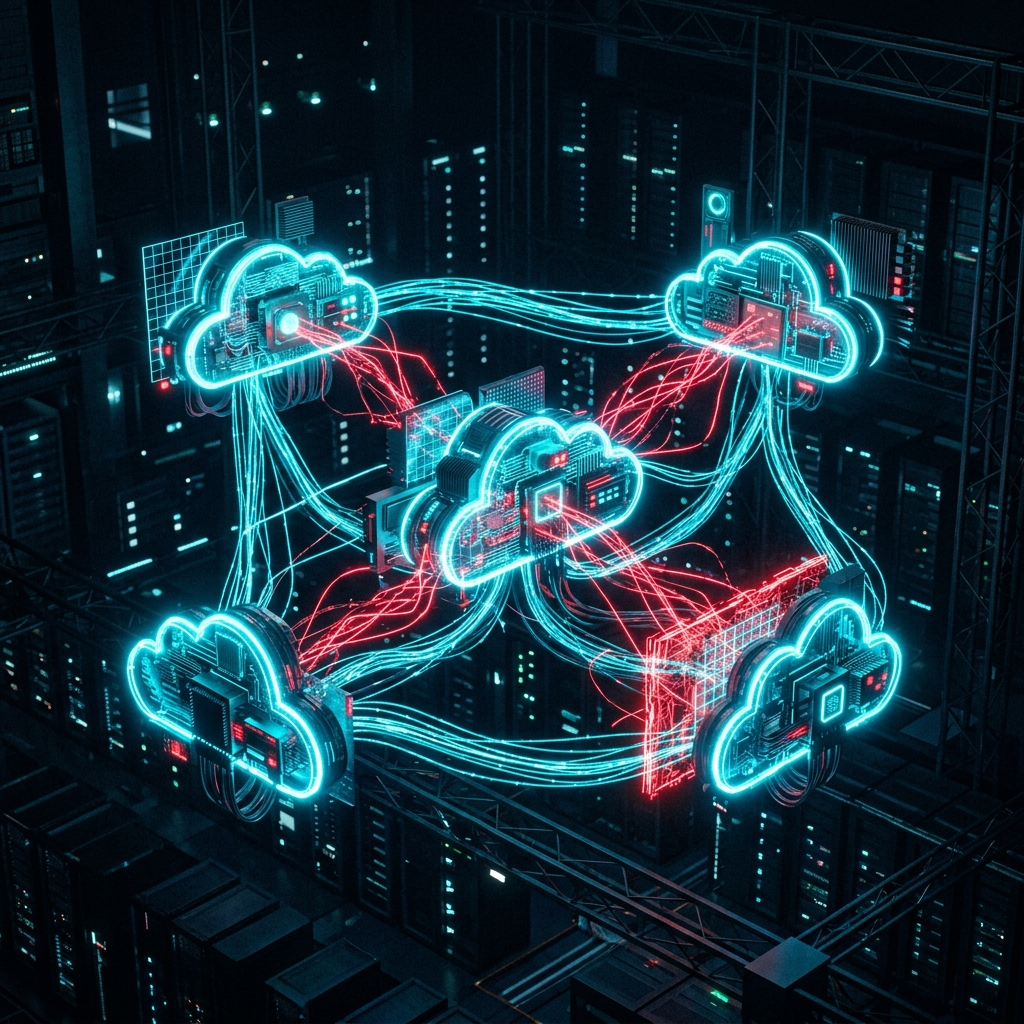
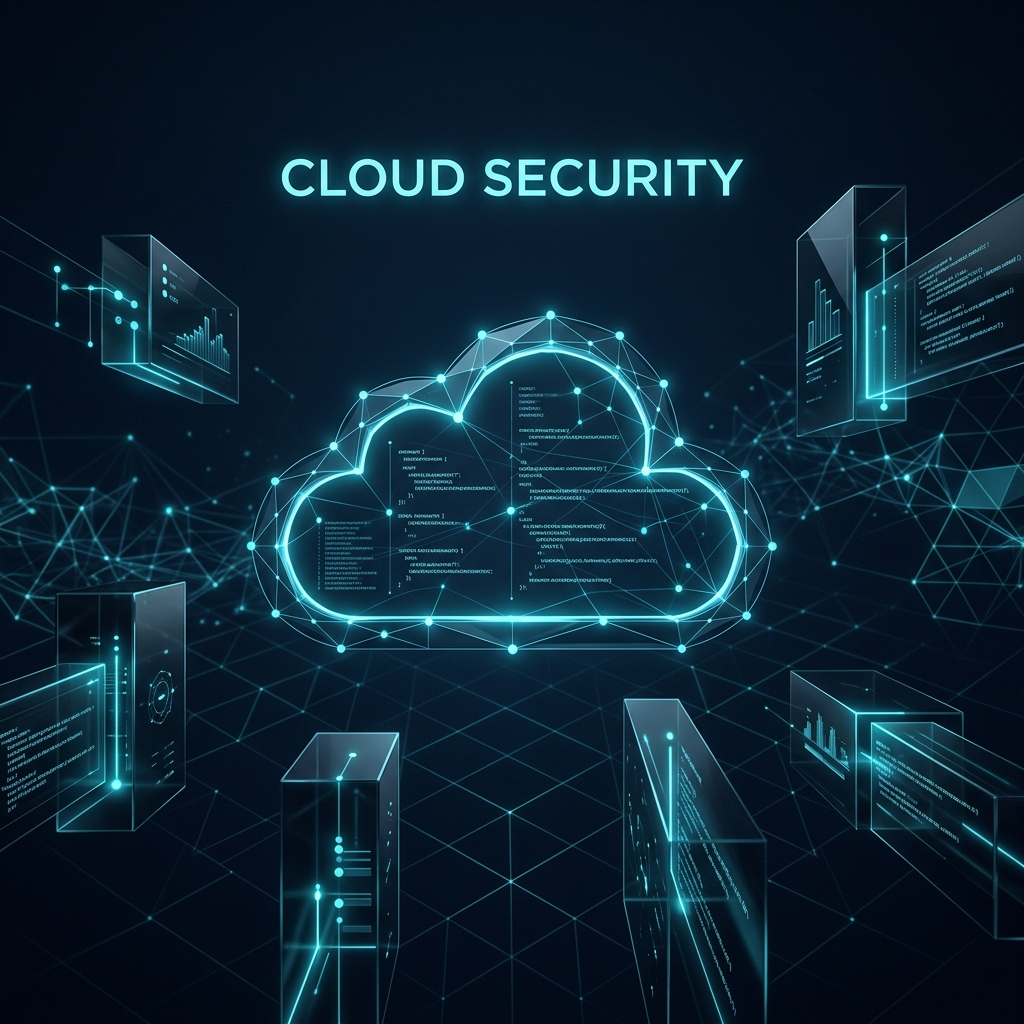
feat: complete redesign of cloud security to full page layout

diff --git a/src/components/pages/Page08CloudSecurity.tsx b/src/components/pages/Page08CloudSecurity.tsx
@@ -3,112 +3,118 @@ import cloudImg from "@/assets/p11-cloud.jpg";
 
 export function Page08CloudSecurity({ goToIndex }: { goToIndex?: (i: number) => void }) {
   return (
-    <div className="relative w-full h-full bg-ink overflow-hidden">
-      {/* Full bleed background image with low opacity */}
-      <motion.img
-        src={cloudImg}
-        alt="Cloud Architecture Map"
-        width={1920}
-        height={1080}
-        loading="lazy"
-        initial={{ scale: 1.1, opacity: 0 }}
-        whileInView={{ scale: 1, opacity: 0.3 }}
-        viewport={{ once: true, margin: "-100px" }}
-        transition={{ duration: 1.5, ease: "easeOut" }}
-        className="absolute inset-0 w-full h-full object-cover"
-      />
-      <div className="absolute inset-0 bp-grid opacity-50" />
-
-      {/* Animated SVG Network Mesh representing Cloud */}
-      <svg className="absolute inset-0 w-full h-full pointer-events-none" viewBox="0 0 1920 1080" preserveAspectRatio="none">
-        {[
-          { x1: "10%", y1: "80%", x2: "40%", y2: "40%", c: "#00D8FF" },
-          { x1: "40%", y1: "40%", x2: "70%", y2: "70%", c: "#00D8FF" },
-          { x1: "70%", y1: "70%", x2: "90%", y2: "30%", c: "#FF355E" },
-          { x1: "20%", y1: "20%", x2: "40%", y2: "40%", c: "#00D8FF" },
-          { x1: "60%", y1: "15%", x2: "90%", y2: "30%", c: "#00D8FF" },
-        ].map((line, i) => (
-          <motion.line
-            key={i}
-            x1={line.x1}
-            y1={line.y1}
-            x2={line.x2}
-            y2={line.y2}
-            stroke={line.c}
-            strokeWidth="1"
-            strokeDasharray="4 4"
-            initial={{ pathLength: 0, opacity: 0 }}
-            whileInView={{ pathLength: 1, opacity: 0.5 }}
-            viewport={{ once: true }}
-            transition={{ duration: 2, delay: i * 0.3 }}
-          />
-        ))}
-        {/* Animated Packets on lines */}
-        {[
-          { cx: "40%", cy: "40%", delay: 0 },
-          { cx: "70%", cy: "70%", delay: 1 },
-          { cx: "90%", cy: "30%", delay: 1.5 },
-        ].map((node, i) => (
-          <motion.circle
-            key={`n${i}`}
-            cx={node.cx}
-            cy={node.cy}
-            r="4"
-            fill="#0B1220"
-            stroke="#00D8FF"
-            strokeWidth="1.5"
-            initial={{ scale: 0 }}
+    <div className="relative w-full h-full bg-void overflow-y-auto custom-scrollbar">
+      
+      {/* Hero Section */}
+      <div className="relative w-full min-h-[60vh] flex flex-col justify-center px-8 md:px-24 pt-20 pb-16">
+        {/* Background Image with Gradient Fade */}
+        <div className="absolute inset-0 z-0">
+          <motion.img
+            src={cloudImg}
+            alt="Cloud Security"
+            className="w-full h-full object-cover opacity-40"
+            initial={{ scale: 1.05 }}
             whileInView={{ scale: 1 }}
             viewport={{ once: true }}
-            transition={{ delay: 1 + node.delay }}
+            transition={{ duration: 1.5, ease: "easeOut" }}
           />
-        ))}
-      </svg>
+          <div className="absolute inset-0 bg-gradient-to-b from-void/30 via-void/80 to-void" />
+          <div className="absolute inset-0 bp-grid-fine opacity-30" />
+        </div>
 
-      <div className="relative z-10 w-full h-full flex items-center justify-end p-8 md:p-16 pointer-events-none">
-        {/* Floating frosted glass panel on the right - Made scrollable for extra content */}
-        <motion.div 
-          initial={{ x: 50, opacity: 0 }}
-          whileInView={{ x: 0, opacity: 1 }}
-          viewport={{ once: true }}
-          transition={{ duration: 0.8 }}
-          className="w-full max-w-2xl h-full max-h-[85vh] overflow-y-auto custom-scrollbar bg-void/85 backdrop-blur-xl border border-cyan/20 p-8 md:p-12 shadow-[0_0_50px_rgba(0,216,255,0.05)] pointer-events-auto"
-        >
-          <div className="flex justify-between items-start mb-6 sticky top-0 bg-void/90 backdrop-blur-md pt-2 pb-4 z-20 border-b border-line/30 -mt-4 mb-8">
+        {/* Hero Content */}
+        <div className="relative z-10 max-w-4xl">
+          <div className="flex items-center gap-4 mb-8">
             <div className="mono text-[10px] uppercase tracking-[0.35em] text-cyan">
               08 — Discipline
             </div>
+            <div className="h-px w-12 bg-cyan/30" />
             <div className="flex items-center gap-2 mono text-[9px] text-cyan/70">
               <span className="w-2 h-2 rounded-full bg-cyan pulse-dot" />
-              REGION: us-east-1 ONLINE
+              MULTI-CLOUD ENVIRONMENT ACTIVE
             </div>
           </div>
-          
+
           <motion.h2
-            initial={{ opacity: 0, y: 10 }}
+            initial={{ opacity: 0, y: 20 }}
             whileInView={{ opacity: 1, y: 0 }}
             viewport={{ once: true }}
-            transition={{ delay: 0.2, duration: 0.8 }}
-            className="display text-4xl md:text-5xl leading-[1.1] font-semibold mb-2"
+            transition={{ duration: 0.8 }}
+            className="display text-5xl md:text-7xl lg:text-8xl leading-[1.05] font-semibold mb-6 tracking-tight text-paper"
           >
             Cloud<br />
             <span className="text-cyan">Security.</span>
           </motion.h2>
 
-          <p className="mono text-[10px] text-cyan uppercase tracking-[0.2em] mb-8">
+          <motion.p 
+            initial={{ opacity: 0 }}
+            whileInView={{ opacity: 1 }}
+            viewport={{ once: true }}
+            transition={{ delay: 0.2, duration: 0.8 }}
+            className="mono text-xs md:text-sm text-cyan uppercase tracking-[0.2em] max-w-2xl leading-relaxed"
+          >
             Secure your multi-cloud infrastructure and cloud-native apps.
-          </p>
+          </motion.p>
+        </div>
+      </div>
 
-          <div className="mb-10">
-            <h3 className="display text-lg font-semibold text-paper mb-3 border-l-2 border-cyan pl-3">Overview</h3>
-            <p className="text-paper/70 text-sm leading-relaxed">
+      {/* Main Content Grid */}
+      <div className="relative z-10 w-full px-8 md:px-24 pb-24 grid grid-cols-1 lg:grid-cols-12 gap-16">
+        
+        {/* Left Column (Overview & FAQ) */}
+        <div className="col-span-1 lg:col-span-5 flex flex-col gap-16">
+          <motion.div 
+            initial={{ opacity: 0, y: 20 }}
+            whileInView={{ opacity: 1, y: 0 }}
+            viewport={{ once: true, margin: "-50px" }}
+            transition={{ duration: 0.6 }}
+          >
+            <h3 className="display text-2xl font-semibold text-paper mb-6 flex items-center gap-4">
+              <span className="w-8 h-px bg-cyan"></span>
+              Overview
+            </h3>
+            <p className="text-paper/70 text-base leading-relaxed">
               Misconfigurations are the leading cause of cloud breaches. We analyze your AWS, Azure, GCP, and Kubernetes deployments to ensure proper IAM governance, network segmentation, and adherence to cloud security benchmarks.
             </p>
-          </div>
+          </motion.div>
 
-          <div className="mb-10">
-            <h3 className="display text-lg font-semibold text-paper mb-4 border-l-2 border-cyan pl-3">What's Included</h3>
-            <div className="grid grid-cols-1 md:grid-cols-2 gap-3">
+          <motion.div
+            initial={{ opacity: 0, y: 20 }}
+            whileInView={{ opacity: 1, y: 0 }}
+            viewport={{ once: true, margin: "-50px" }}
+            transition={{ duration: 0.6, delay: 0.2 }}
+          >
+            <h3 className="display text-2xl font-semibold text-paper mb-6 flex items-center gap-4">
+              <span className="w-8 h-px bg-cyan"></span>
+              FAQ
+            </h3>
+            <div className="flex flex-col gap-4">
+              {[
+                { q: "Do you support multi-cloud environments?", a: "Yes, our team is proficient across AWS, Azure, and Google Cloud Platform, providing unified security strategies." },
+                { q: "How do you detect drift in cloud environments?", a: "We implement continuous monitoring tools and IaC guardrails that instantly alert on unauthorized configuration changes." }
+              ].map((faq, i) => (
+                 <div key={i} className="border border-line/30 p-6 bg-panel/30 hover:bg-panel/50 transition-colors">
+                    <div className="text-cyan text-sm font-semibold mb-3 tracking-wide">{faq.q}</div>
+                    <div className="text-paper/70 text-sm leading-relaxed">{faq.a}</div>
+                 </div>
+              ))}
+            </div>
+          </motion.div>
+        </div>
+
+        {/* Right Column (Included & Deliverables) */}
+        <div className="col-span-1 lg:col-span-7 flex flex-col gap-16">
+          <motion.div
+            initial={{ opacity: 0, y: 20 }}
+            whileInView={{ opacity: 1, y: 0 }}
+            viewport={{ once: true, margin: "-50px" }}
+            transition={{ duration: 0.6, delay: 0.1 }}
+          >
+            <h3 className="display text-2xl font-semibold text-paper mb-6 flex items-center gap-4">
+              <span className="w-8 h-px bg-cyan"></span>
+              What's Included
+            </h3>
+            <div className="grid grid-cols-1 md:grid-cols-2 gap-4">
               {[
                 "Cloud Security Posture Management (CSPM) implementation and tuning",
                 "Identity & Access Management (IAM) privilege auditing (CIEM)",
@@ -117,63 +123,57 @@ export function Page08CloudSecurity({ goToIndex }: { goToIndex?: (i: number) => 
                 "Cloud network architecture and egress filtering validation",
                 "Continuous compliance mapping (CIS Benchmarks, NIST)"
               ].map((item, i) => (
-                <div key={i} className="flex items-start gap-3 bg-cyan/5 border border-cyan/10 p-3">
-                  <span className="text-cyan mt-0.5">✓</span>
-                  <span className="text-[11px] text-paper/80 leading-relaxed">{item}</span>
+                <div key={i} className="flex items-start gap-4 border border-cyan/10 bg-cyan/5 p-5 hover:border-cyan/30 transition-colors">
+                  <div className="flex-shrink-0 w-5 h-5 rounded bg-cyan/10 border border-cyan/30 flex items-center justify-center mt-0.5">
+                    <span className="text-cyan text-xs">✓</span>
+                  </div>
+                  <span className="text-[13px] text-paper/85 leading-relaxed">{item}</span>
                 </div>
               ))}
             </div>
-          </div>
+          </motion.div>
 
-          <div className="mb-10">
-            <h3 className="display text-lg font-semibold text-paper mb-4 border-l-2 border-cyan pl-3">Key Deliverables</h3>
-            <ul className="flex flex-col gap-2">
-              {[
-                "Cloud configuration audit reports",
-                "IAM excess-privilege remediation plan",
-                "Kubernetes cluster security scorecards",
-                "Automated guardrail templates (Terraform, CloudFormation)",
-                "Real-time drift detection setup"
-              ].map((item, i) => (
-                <li key={i} className="flex items-center gap-3">
-                  <span className="w-1.5 h-1.5 bg-cyan rounded-full" />
-                  <span className="text-sm text-paper/80">{item}</span>
-                </li>
-              ))}
-            </ul>
-          </div>
-
-          <div className="mb-10">
-            <h3 className="display text-lg font-semibold text-paper mb-4 border-l-2 border-cyan pl-3">Frequently Asked Questions</h3>
-            <div className="flex flex-col gap-3">
-              {[
-                { q: "Do you support multi-cloud environments?", a: "Yes, our team is proficient across AWS, Azure, and Google Cloud Platform, providing unified security strategies." },
-                { q: "How do you detect drift in cloud environments?", a: "We implement continuous monitoring tools and IaC guardrails that instantly alert on unauthorized configuration changes." }
-              ].map((faq, i) => (
-                 <div key={i} className="border border-line/30 p-4 bg-void">
-                    <div className="text-cyan text-sm font-semibold mb-2">Q: {faq.q}</div>
-                    <div className="text-paper/70 text-xs leading-relaxed">A: {faq.a}</div>
-                 </div>
-              ))}
+          <motion.div
+            initial={{ opacity: 0, y: 20 }}
+            whileInView={{ opacity: 1, y: 0 }}
+            viewport={{ once: true, margin: "-50px" }}
+            transition={{ duration: 0.6, delay: 0.3 }}
+          >
+            <h3 className="display text-2xl font-semibold text-paper mb-6 flex items-center gap-4">
+              <span className="w-8 h-px bg-cyan"></span>
+              Key Deliverables
+            </h3>
+            <div className="bg-panel/20 border border-line/30 p-8">
+              <ul className="flex flex-col gap-4">
+                {[
+                  "Cloud configuration audit reports",
+                  "IAM excess-privilege remediation plan",
+                  "Kubernetes cluster security scorecards",
+                  "Automated guardrail templates (Terraform, CloudFormation)",
+                  "Real-time drift detection setup"
+                ].map((item, i) => (
+                  <li key={i} className="flex items-center gap-4">
+                    <span className="w-1.5 h-1.5 bg-cyan rotate-45" />
+                    <span className="text-base text-paper/90 tracking-wide">{item}</span>
+                  </li>
+                ))}
+              </ul>
             </div>
-          </div>
-
-          <div className="flex flex-wrap items-center justify-between mt-8 pt-6 border-t border-line/30">
-             <div className="flex flex-wrap gap-2 mono text-[8px] uppercase tracking-[0.2em] text-paper/60">
-              {["AWS", "AZURE", "GCP", "CSPM", "KUBERNETES"].map((t) => (
-                <span key={t} className="px-2 py-1 bg-cyan/5 text-cyan/80">
-                  {t}
-                </span>
-              ))}
-            </div>
-            
-            {goToIndex && (
-              <button onClick={() => goToIndex(2)} className="mono text-[9px] text-cyan hover:text-white uppercase tracking-[0.2em] transition-colors flex items-center gap-2">
-                ← Directory
+          </motion.div>
+          
+          {/* Footer Navigation */}
+          <div className="pt-8 border-t border-line/30 flex justify-between items-center mt-auto">
+             <div className="flex gap-3 mono text-[9px] uppercase tracking-[0.2em] text-paper/40">
+                <span>[ CONFIDENTIAL ]</span>
+             </div>
+             {goToIndex && (
+              <button onClick={() => goToIndex(2)} className="mono text-[10px] bg-cyan/10 border border-cyan/30 px-6 py-3 text-cyan hover:bg-cyan hover:text-void uppercase tracking-[0.2em] transition-all flex items-center gap-3">
+                ← Return to Directory
               </button>
             )}
           </div>
-        </motion.div>
+        </div>
+
       </div>
     </div>
   );
